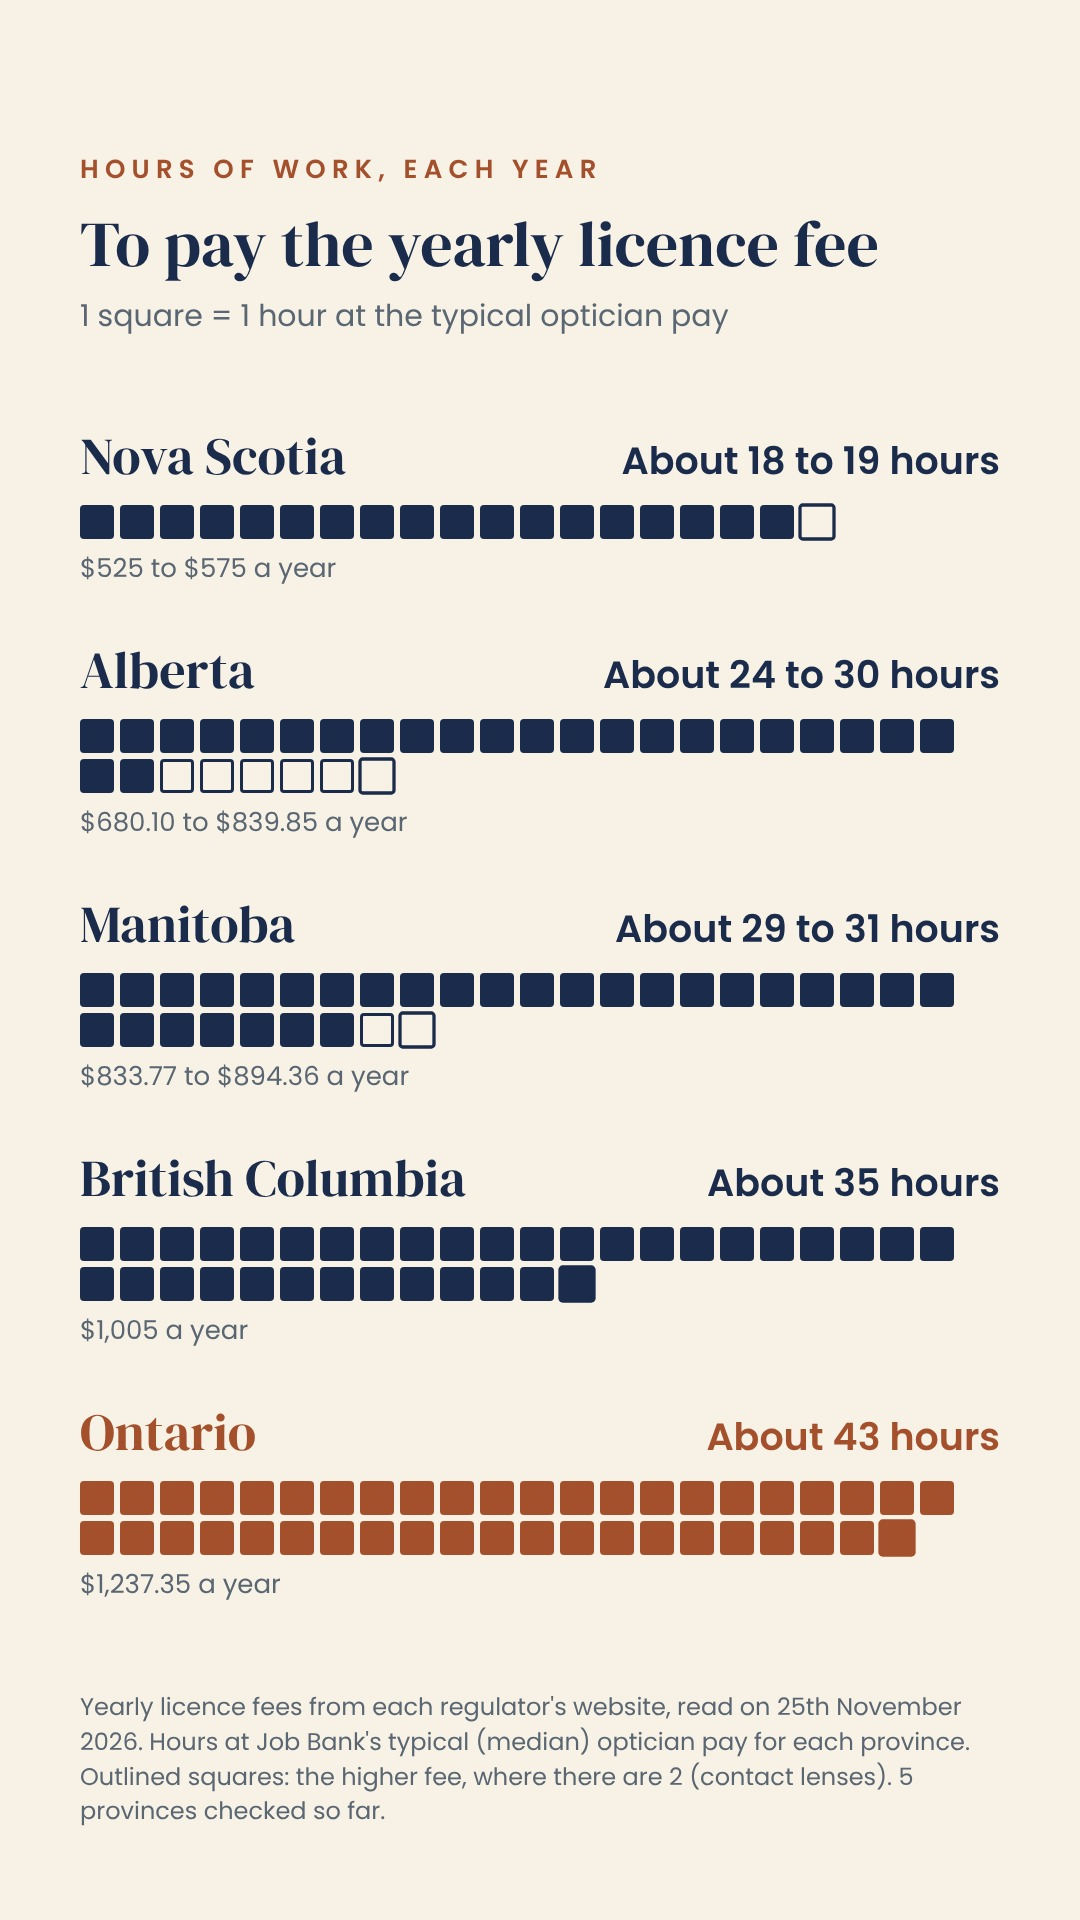
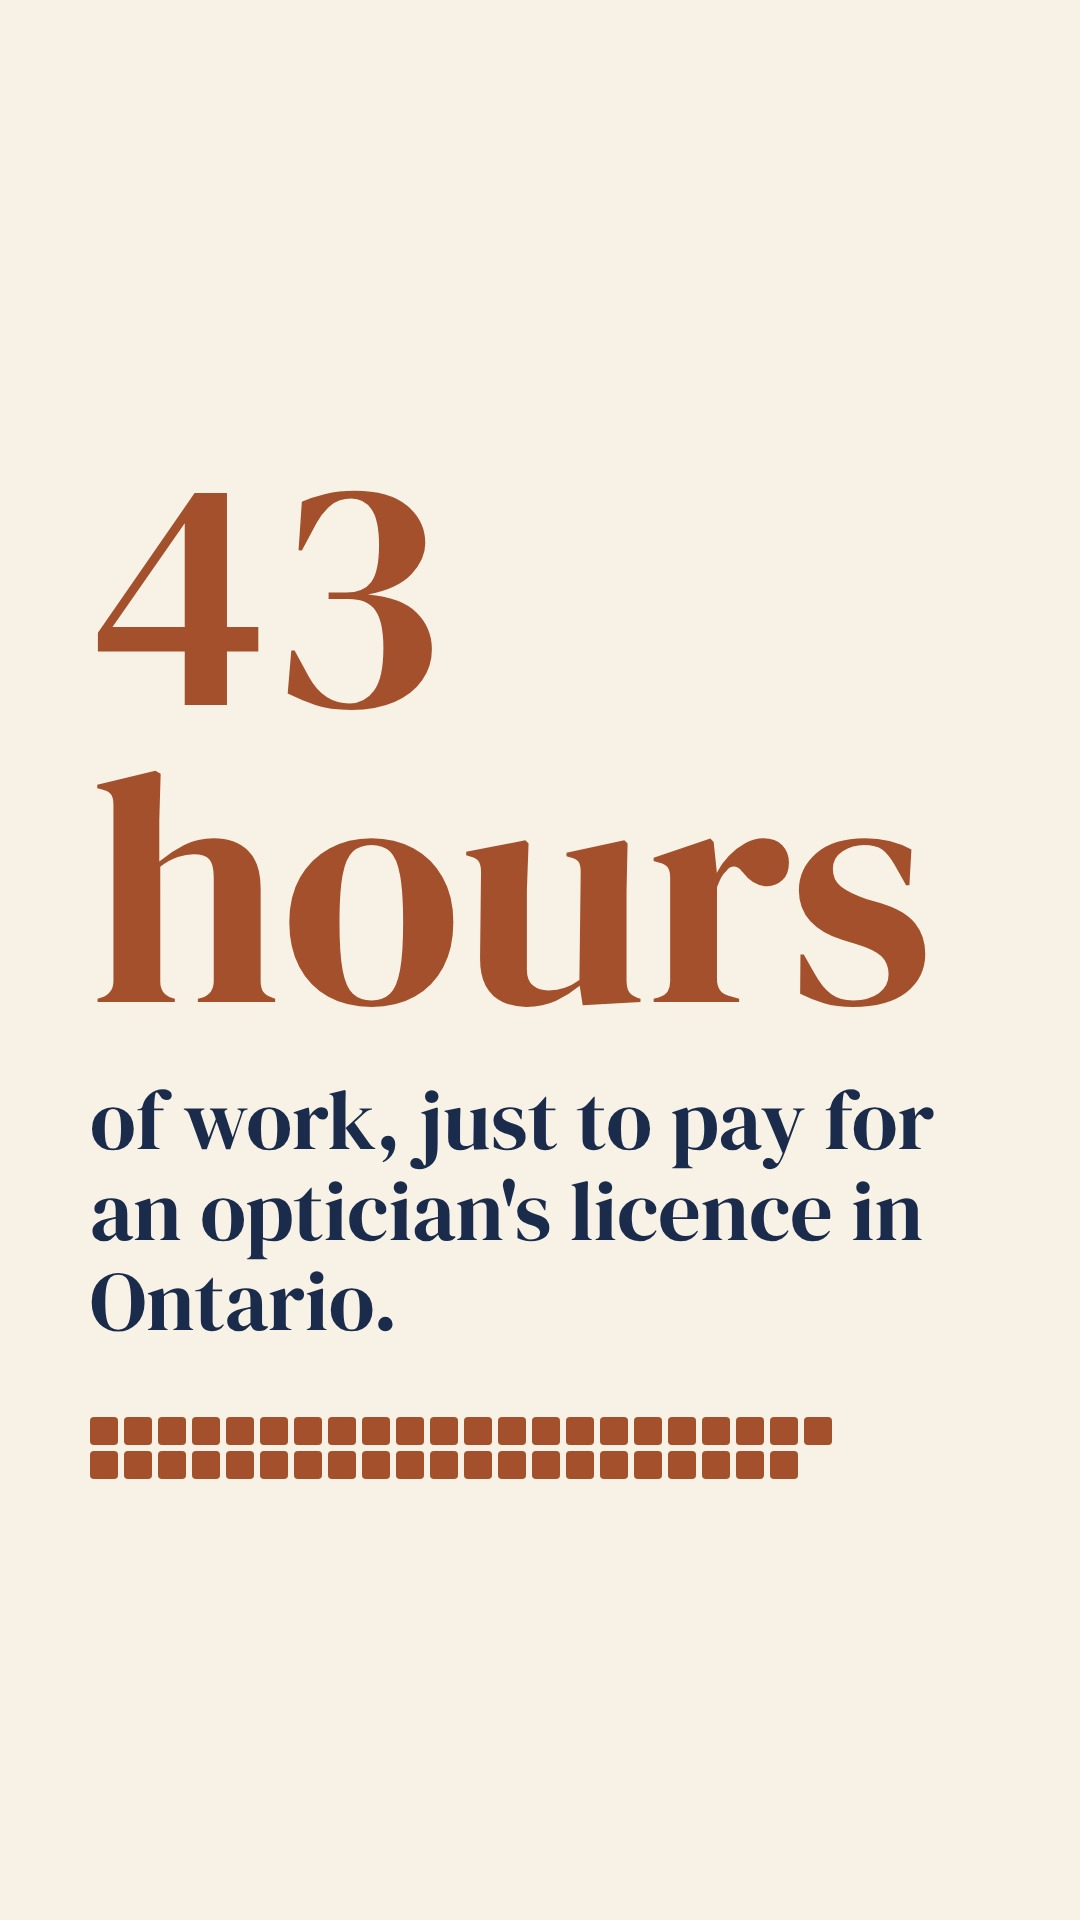
Licence fee Reel: a simpler cover (43 hours)
Claude-Session: https://claude.ai/code/session_01K4dgNT44d6ujsE4qjnTdTu

diff --git a/design/social-and-merch/instagram-guides/licence-reel.html b/design/social-and-merch/instagram-guides/licence-reel.html
@@ -19,6 +19,8 @@ body{margin:0}p{margin:0}
 .on .pn,.on .hr{color:#A4502C}.on .s{background:#A4502C}
 #key{left:80px;right:80px;top:1690px;font-family:Poppins;font-size:24px;line-height:1.45;color:#5A6672;opacity:0}
 #mid{left:80px;right:80px;top:600px;opacity:0}
+#cov{position:absolute;inset:0;background:#F7F1E6;display:none;flex-direction:column;justify-content:center;padding:0 90px}
+.csq{display:grid;grid-template-columns:repeat(22,28px);gap:6px;margin-top:70px}.csq span{width:28px;height:28px;border-radius:4px;background:#A4502C}
 #end{position:absolute;inset:0;background:#F7F1E6;opacity:0;display:flex;flex-direction:column;align-items:center;justify-content:center;text-align:center;padding:0 80px}
 </style></head><body><div id="f">
 <div class="abs" id="hook">
@@ -38,6 +40,11 @@ body{margin:0}p{margin:0}
 <div class="abs" id="mid">
 <p style="font-family:'DM Serif Display';font-size:100px;line-height:1.05;color:#1B2B4B">Ontario&apos;s fee is more than twice Nova Scotia&apos;s.</p>
 <p style="font-family:'DM Serif Display';font-size:100px;line-height:1.05;color:#A4502C;margin-top:50px">Pay is only half the picture.</p>
+</div>
+<div id="cov">
+<p style="font-family:'DM Serif Display';font-size:330px;line-height:.9;color:#A4502C">43 hours</p>
+<p style="font-family:'DM Serif Display';font-size:84px;line-height:1.08;color:#1B2B4B;margin-top:40px">of work, just to pay for an optician&apos;s licence in Ontario.</p>
+<div class="csq"><span></span><span></span><span></span><span></span><span></span><span></span><span></span><span></span><span></span><span></span><span></span><span></span><span></span><span></span><span></span><span></span><span></span><span></span><span></span><span></span><span></span><span></span><span></span><span></span><span></span><span></span><span></span><span></span><span></span><span></span><span></span><span></span><span></span><span></span><span></span><span></span><span></span><span></span><span></span><span></span><span></span><span></span><span></span></div>
 </div>
 <div id="end">
 <img src="file:///home/user/Kestrel/public/brand/kestrel-lockup-full.svg" alt="" style="width:860px;display:block">
@@ -79,5 +86,6 @@ window.render = (t, cover = false) => {
   const show = (id, a) => { const v = out(span(t, a, a + 0.5)); el(id).style.opacity = v; el(id).style.transform = "translateY(" + 20 * (1 - v) + "px)"; };
   show("e1", B(13)); show("e2", B(14));
 };
-window.cover = () => window.render(11.5, true);
+// The cover is its own simple design (Steve, 27th November 2026: the chart frame was too busy), kept inside the 4:5 grid crop.
+window.cover = () => { el("cov").style.display = "flex"; };
 </script></body></html>
